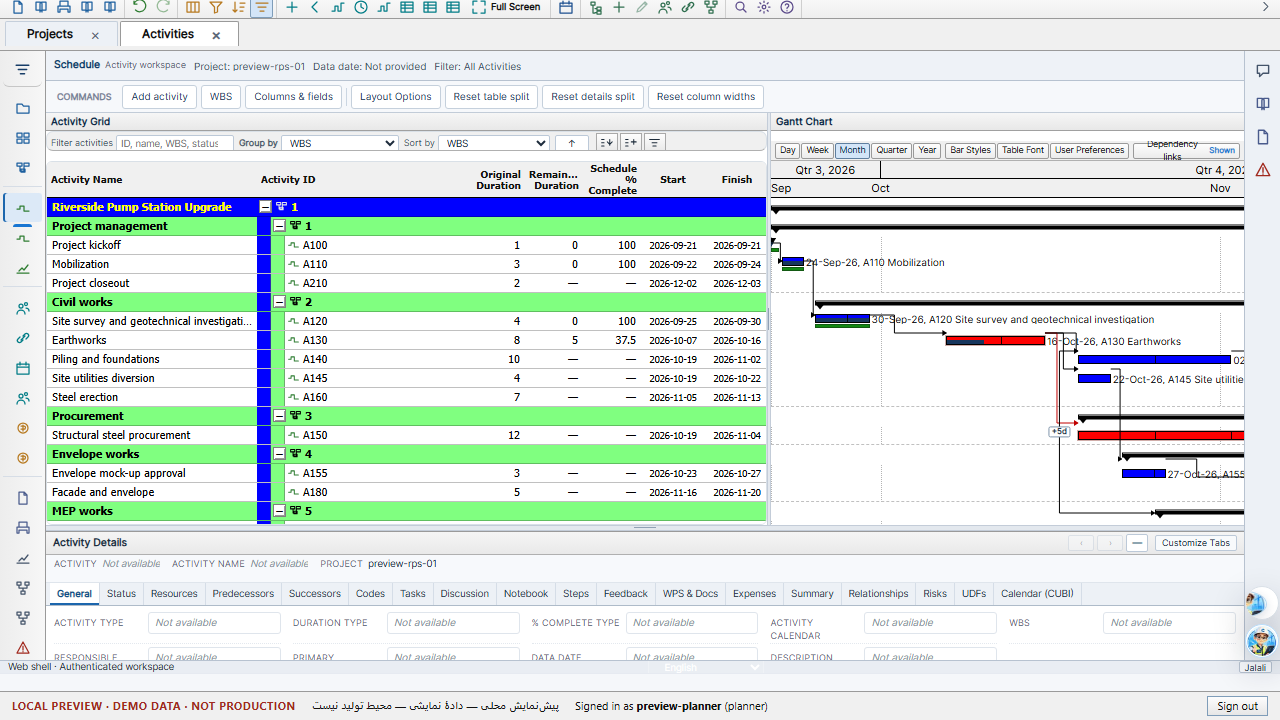
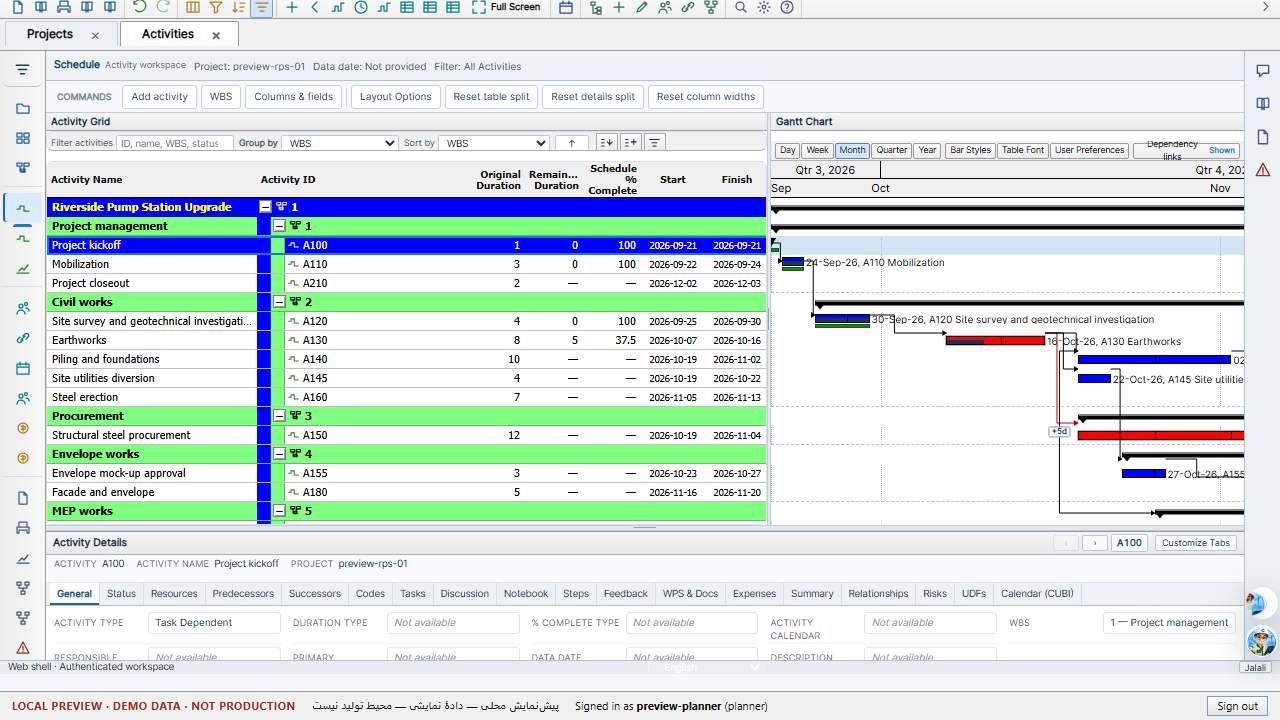
fix(workspace): bind the v26 details checks to the real selected facts
The preview E2E read Activity ID/name/Status/Project from the General tab,
but Version 26 carries identity in the details header and status in the
Status tab. Point the assertions at those surfaces, compare Activity Type
with the Activity Master record and the WBS with the selected row's band,
and verify Actual Start/Finish against the same record. Also stop using the
scheduled-duration grid fact as At Complete: it is a different fact and
showed 0 for a completed activity, so the pane now states Not available
when the read model has no at-completion value.

Both the preview E2E and the 18 mandatory scenarios pass on this change
(98 recorded checks; 18/18 with regenerated screenshots 86-89).

diff --git a/apps/web/src/workspace-activity-details.test.ts b/apps/web/src/workspace-activity-details.test.ts
@@ -3,6 +3,7 @@ import test from "node:test";
 
 import { createWorkspaceState, type WorkspaceActivityRow } from "./workspace-model.js";
 import {
+  ACTIVITY_DETAILS_STORAGE_KEY,
   ACTIVITY_DETAILS_TABS,
   ACTIVITY_DETAILS_VISIBLE_TABS_STORAGE_KEY,
   readActivityDetailsVisibleTabs,
@@ -97,6 +98,36 @@ test("stored tab display sets migrate earlier documents ids and reject unknown i
   assert.deepEqual(readActivityDetailsVisibleTabs(storage), ["general", "wps-docs"]);
   store.set(ACTIVITY_DETAILS_VISIBLE_TABS_STORAGE_KEY, "{not json");
   assert.equal(readActivityDetailsVisibleTabs(storage).length, ACTIVITY_DETAILS_TABS.length);
+});
+
+test("status At Complete is never replaced by the scheduled-duration grid fact", () => {
+  // The active-tab reader falls back to general without storage; provide the
+  // same storage contract a browser has so the Status tab renders.
+  Object.defineProperty(globalThis, "window", {
+    configurable: true,
+    value: { localStorage: { getItem: (key: string) => (key === ACTIVITY_DETAILS_STORAGE_KEY ? "status" : null) } },
+  });
+  try {
+    const renderWith = (cells: Record<string, string | number>): string => renderActivityDetailsPanel({
+      locale: "en",
+      activities: [{ id: "act-1", wbsId: "wbs-1", code: "A100", name: "Kickoff", cells }],
+      selectedActivityId: "act-1",
+      relationships: [],
+      projectName: "Shared Core",
+      dataDate: "2026-10-07",
+      calendarMode: "gregorian",
+    });
+    assert.match(
+      renderWith({ at_complete_duration: 4, duration: 0 }),
+      /At Complete<\/span><span class="cp-detail-value"[^>]*>4</,
+    );
+    assert.match(
+      renderWith({ duration: 0, planned_duration: 1, remaining_duration: 0 }),
+      /At Complete<\/span><span class="cp-detail-value is-empty"[^>]*>Not available</,
+    );
+  } finally {
+    Reflect.deleteProperty(globalThis, "window");
+  }
 });
 
 test("WPS & Docs reads real linked project documents", () => {

diff --git a/apps/web/src/workspace-activity-details.ts b/apps/web/src/workspace-activity-details.ts
@@ -380,7 +380,7 @@ function activityTabBody(tab: ActivityDetailsTabId, input: ActivityDetailsInput)
           ${field(locale, t(locale, "Original or Planned", "اصلی یا برنامهای"), item("planned_duration", "original_duration"))}
           ${field(locale, t(locale, "Actual", "واقعی"), item("actual_duration"))}
           ${field(locale, t(locale, "Remaining", "باقیمانده"), item("remaining_duration"))}
-          ${field(locale, t(locale, "At Complete", "در پایان"), item("at_complete_duration", "duration", "scheduled_duration"))}
+          ${field(locale, t(locale, "At Complete", "در پایان"), item("at_complete_duration", "at_completion_duration"))}
           ${field(locale, t(locale, "Total Float", "شناوری کل"), item("total_float"))}
           ${field(locale, t(locale, "Free Float", "شناوری آزاد"), item("free_float"))}
         </div>`)}

diff --git a/docs/qa/ACTIVITIES_V26_COMPLIANCE_MATRIX_2026-11-08.md b/docs/qa/ACTIVITIES_V26_COMPLIANCE_MATRIX_2026-11-08.md
@@ -81,6 +81,7 @@
 ## محدودیتهای صریح باقیمانده (بدون ادعای تطابق کامل)
 
 - Data Date معتبر در read model پروژهٔ پیشنمایش وجود ندارد؛ خط رسم نمیشود و در گفتوگو با یادداشت صادقانه غیرفعال است.
+- At Complete Duration، Activity Calendar، Duration Type و Responsible Manager در read model فعلی برنمیگردند؛ «Not available» نمایش داده میشوند و هرگز با فیلد دیگری مانند Scheduled Duration پر نمیشوند.
 - منوی زمینه در پنل Details وجود ندارد؛ در جدول، گانت، باند WBS و ناحیهٔ خالی جدول کار میکند.
 - نوشتن تخصیص منبع، خروجی XLSX، ماندگاری کلیپبورد میان نشستها و دادهٔ کامل تبهای تکمیلی سرویس واقعی ندارند و صادقانه غیرفعال/خالیاند.
 - Group & Sort تا ۳ سطح ذخیره میشود، اما در این اجرا فقط سطح اول آزمون شد.
